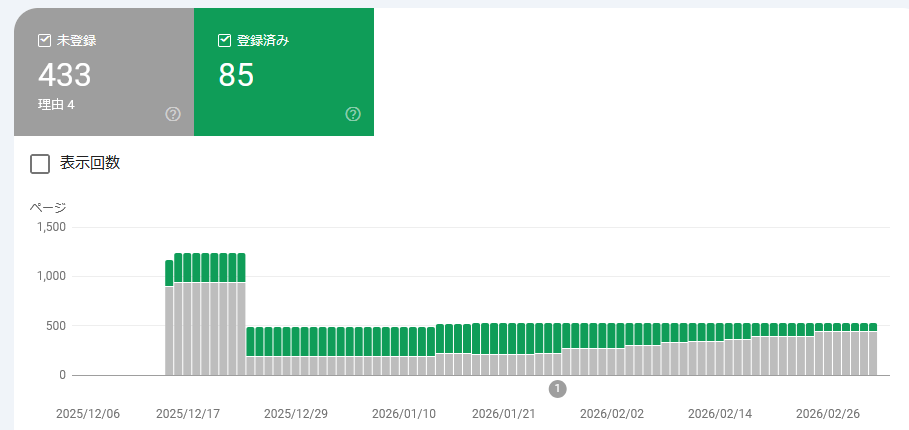
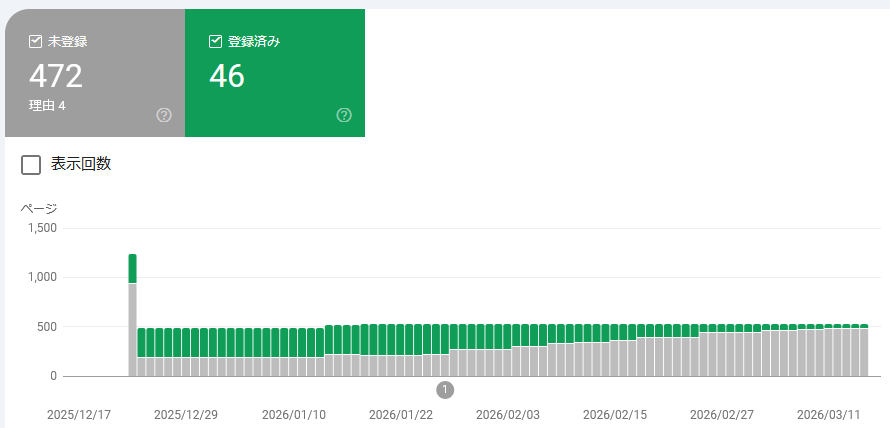
update

diff --git a/2026/03/20260304-web.md b/2026/03/20260304-web.md
@@ -4,7 +4,7 @@ title: "web: GitHub Pagesの管理(2026/03月)"
 tags:
   - web
 create: "2026/03/04"
-date: "2026/03/13"
+date: "2026/03/17"
 ---
 
 ブログ(GitHub Pages)の管理状況報告だ。
@@ -41,15 +41,14 @@ date: "2026/03/13"
 133件 → 85件と大幅に？同じくらい？ともかく減っていた。  
 少なく見ても1回で50件は減るだろうから、5月くらいにはGoogleから消え去っていそうだ。
 
-![image](images/20260304a-3.png)
-
-## 2026/03/13更新
-
-3月10日までの情報が追加されていた。前回が3月3日だったから10日ごとかと思ったが、3月7日にも更新されていた。
+## 2026/03/17更新
 
 * ～2月24日 : 133件
 * 2月25日～3月3日 : 85件(-48)
 * 3月4日～3月10日 : 56件(-29)
+* 3月11日～ : 46件(-10)
+
+![image](images/20260304a-3.png)
 
 AI 関係を拒否するよう robots.txt を更新したが、インデックスに載らない理由には挙げていないからそっちは原因ではないことになっている。
 本当かどうか確認する方法はないがね。
